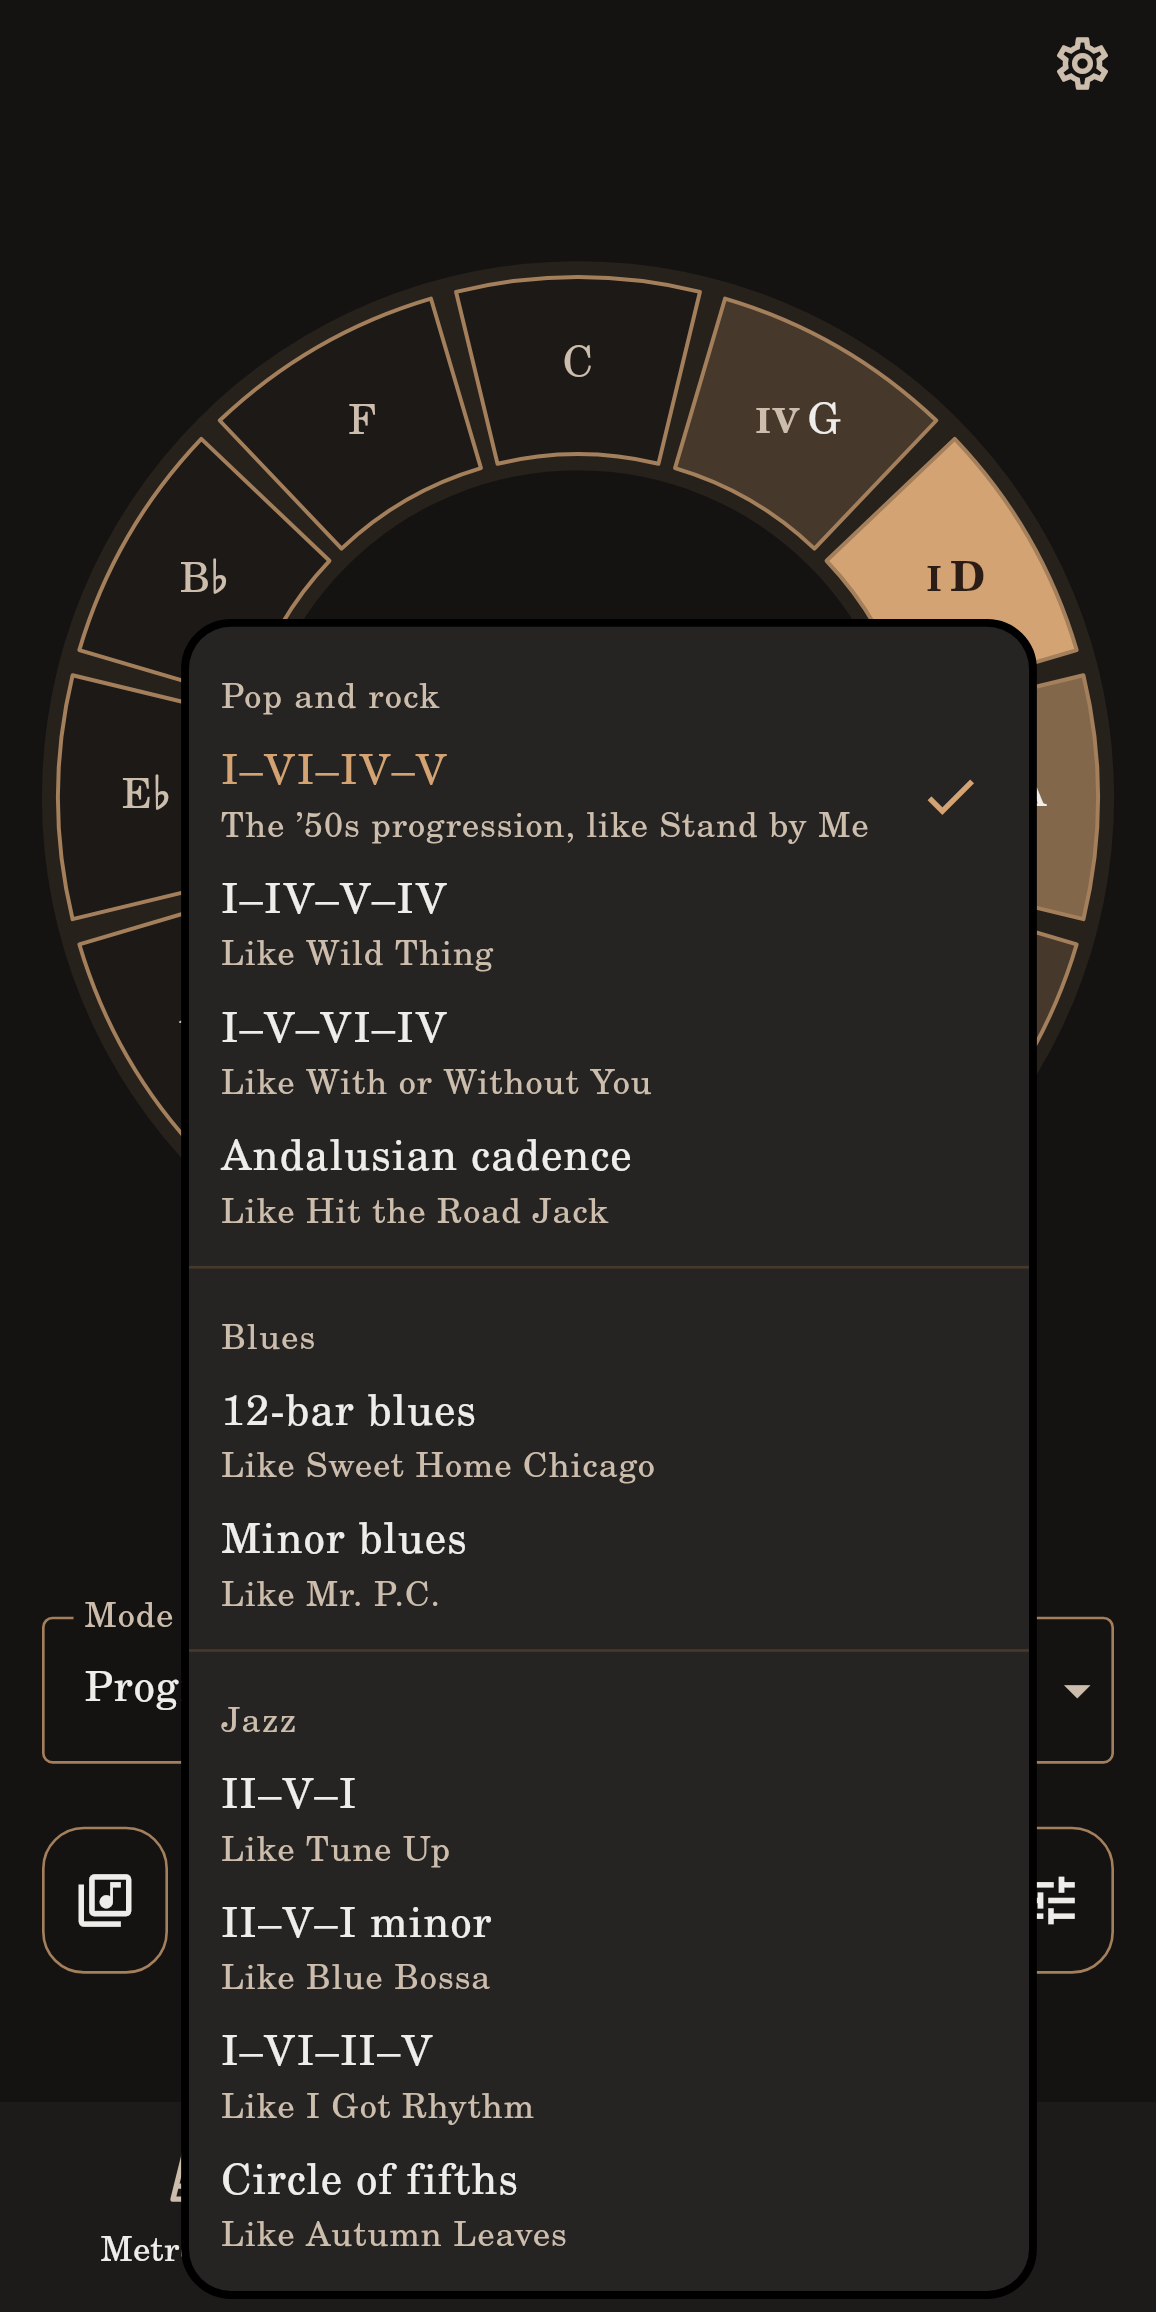
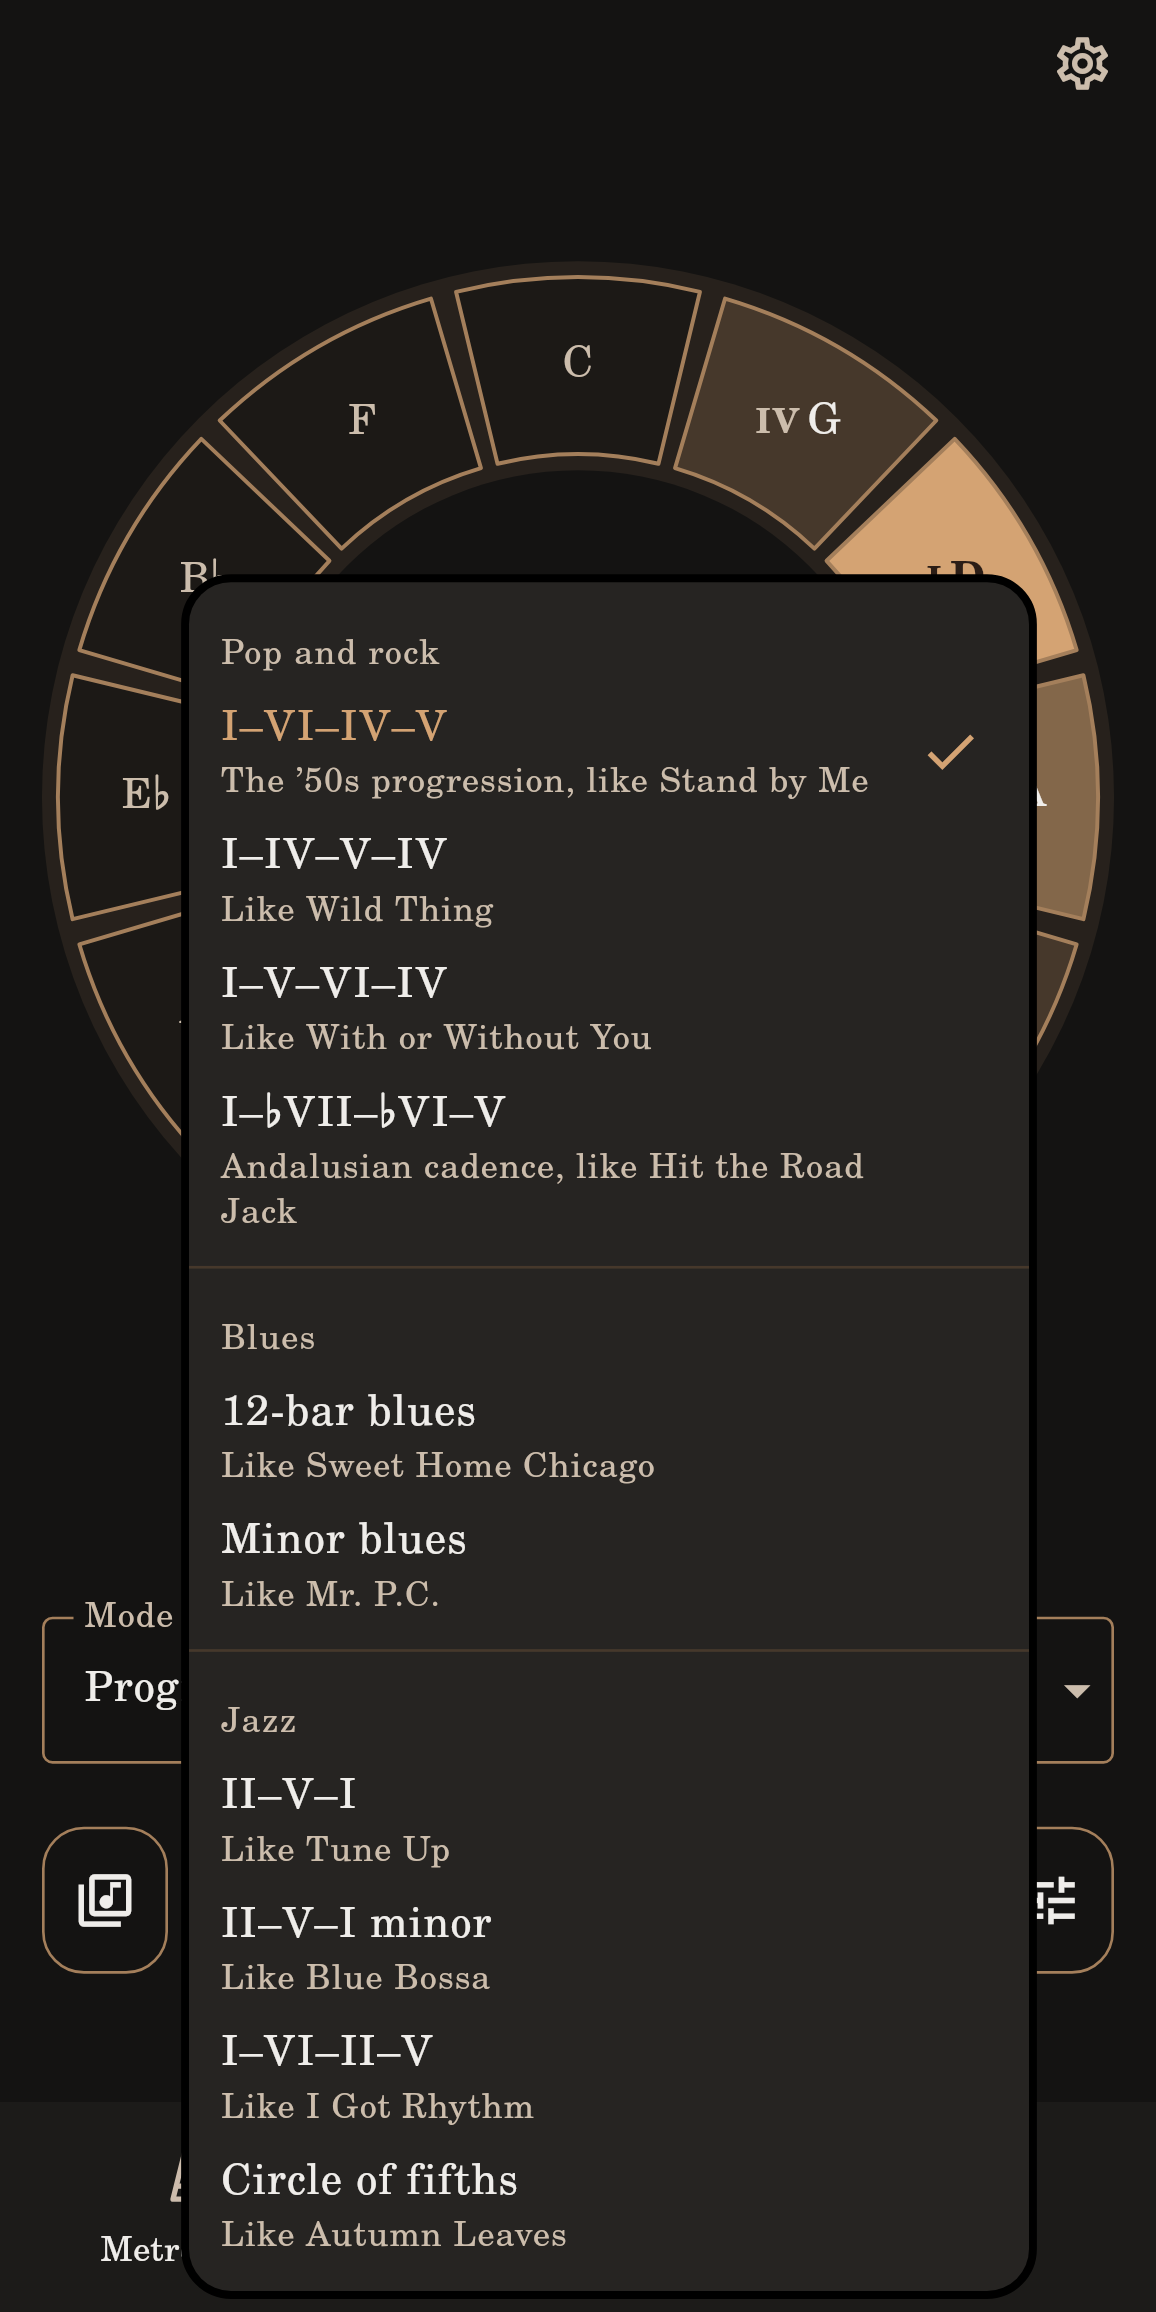
Andalusian cadence in numerals; example songs in sections
- The Andalusian cadence is listed as I–♭VII–♭VI–V like the other
  progressions, with its name under it: "Andalusian cadence, like Hit
  the Road Jack" ("Cadenza andalusa, come Hit the Road Jack").
- The example songs sheet has the same sections as the progression
  menu (Pop and rock, Blues, Jazz), with the same headings, in the
  same order.

Claude-Session: https://claude.ai/code/session_01H8DRTB9goE3kTEL2xUfQaQ

diff --git a/lib/features/tuner/drone/drone_key_sheets.dart b/lib/features/tuner/drone/drone_key_sheets.dart
@@ -24,7 +24,6 @@ String keyName(AppLocalizations l10n, DroneController drone, NoteNames names) {
 String progressionShort(AppLocalizations l10n, Progression p) => switch (p) {
   Progression.minorTwoFiveOne => 'II–V–I',
   Progression.blues || Progression.minorBlues => l10n.progressionBluesShort,
-  Progression.andalusian => 'I–♭VII–♭VI–V',
   _ => progressionName(l10n, p),
 };
 
@@ -207,7 +206,16 @@ Future<void> showSongsSheet(BuildContext context) {
                   ),
                 ),
               ),
-              for (final song in exampleSongs)
+              for (final (i, song) in exampleSongs.indexed) ...[
+                // The sections of the progression menu, in the same order.
+                if (i == 0 ||
+                    exampleSongs[i - 1].progression.section !=
+                        song.progression.section) ...[
+                  if (i > 0) const Divider(),
+                  _SongSection(
+                    progressionSectionName(l10n, song.progression.section),
+                  ),
+                ],
                 ListTile(
                   key: ValueKey('song-${song.title}'),
                   title: Text(song.title),
@@ -225,6 +233,7 @@ Future<void> showSongsSheet(BuildContext context) {
                     Navigator.of(sheet).pop();
                   },
                 ),
+              ],
               const SizedBox(height: 8),
             ],
           ),
@@ -266,6 +275,34 @@ class LegendTile extends StatelessWidget {
         ),
         const SizedBox(height: 8),
       ],
+    );
+  }
+}
+
+/// The heading of a section of the example songs, as in the progression
+/// menu: small muted words, announced as a heading.
+class _SongSection extends StatelessWidget {
+  const _SongSection(this.text);
+
+  final String text;
+
+  @override
+  Widget build(BuildContext context) {
+    final theme = Theme.of(context);
+    return Semantics(
+      header: true,
+      child: Padding(
+        padding: const EdgeInsetsDirectional.fromSTEB(16, 8, 16, 0),
+        child: Align(
+          alignment: AlignmentDirectional.centerStart,
+          child: Text(
+            text,
+            style: theme.textTheme.labelMedium?.copyWith(
+              color: theme.colorScheme.onSurfaceVariant,
+            ),
+          ),
+        ),
+      ),
     );
   }
 }

diff --git a/lib/features/tuner/drone/drone_panel.dart b/lib/features/tuner/drone/drone_panel.dart
@@ -620,7 +620,7 @@ String progressionName(AppLocalizations l10n, Progression p) => switch (p) {
   Progression.oneFourFiveFour => 'I–IV–V–IV',
   Progression.oneSixFourFive => 'I–VI–IV–V',
   Progression.oneFiveSixFour => 'I–V–VI–IV',
-  Progression.andalusian => l10n.progressionAndalusian,
+  Progression.andalusian => 'I–♭VII–♭VI–V',
 };
 
 /// The well-known song a progression is named after in the menu.
@@ -646,11 +646,13 @@ String progressionSectionName(AppLocalizations l10n, ProgressionSection s) =>
     };
 
 /// The line under the name in the menu: "Like Wild Thing"; for I–VI–IV–V
-/// also its common name, the "giro di Do" of Italian musicians.
-String progressionNote(AppLocalizations l10n, Progression p) =>
-    p == Progression.oneSixFourFive
-    ? l10n.progressionGiroLike(progressionSong(p))
-    : l10n.progressionLike(progressionSong(p));
+/// and I–♭VII–♭VI–V also their common names, the "giro di Do" of Italian
+/// musicians and the Andalusian cadence.
+String progressionNote(AppLocalizations l10n, Progression p) => switch (p) {
+  Progression.oneSixFourFive => l10n.progressionGiroLike(progressionSong(p)),
+  Progression.andalusian => l10n.progressionAndalusianLike(progressionSong(p)),
+  _ => l10n.progressionLike(progressionSong(p)),
+};
 
 /// Chord (the note alone being one of them) or Progression, full width, as
 /// tall as the other sections' first row.

diff --git a/test/songs_and_degrees_test.dart b/test/songs_and_degrees_test.dart
@@ -108,6 +108,14 @@ void main() {
     await tester.pumpAndSettle();
     await tester.tap(find.byTooltip('Example songs'));
     await tester.pumpAndSettle();
+    // In the sections of the progression menu.
+    for (final heading in ['Pop and rock', 'Blues', 'Jazz']) {
+      expect(find.text(heading), findsOneWidget);
+    }
+    expect(
+      tester.getTopLeft(find.text('Stand by Me')).dy,
+      lessThan(tester.getTopLeft(find.text('Blues')).dy),
+    );
     await tester.tap(find.text('Blue Bossa'));
     await tester.pumpAndSettle();
     expect(scope.drone.voicing, DroneVoicing.progression);

diff --git a/test/names_test.dart b/test/names_test.dart
@@ -59,6 +59,11 @@ void main() {
     expect(find.text('Like Wild Thing'), findsOneWidget);
     expect(find.text('Like With or Without You'), findsOneWidget);
     expect(find.text('The ’50s progression, like Stand by Me'), findsOneWidget);
+    expect(find.text('I–♭VII–♭VI–V'), findsOneWidget);
+    expect(
+      find.text('Andalusian cadence, like Hit the Road Jack'),
+      findsOneWidget,
+    );
     expect(find.text('Like Sweet Home Chicago'), findsOneWidget);
     expect(find.text('Like Mr. P.C.'), findsOneWidget);
     expect(find.text('Like Tune Up'), findsOneWidget);

diff --git a/lib/l10n/app_localizations.dart b/lib/l10n/app_localizations.dart
@@ -212,11 +212,11 @@ abstract class AppLocalizations {
   /// **'12-bar blues'**
   String get progressionBlues;
 
-  /// No description provided for @progressionAndalusian.
+  /// Under I–♭VII–♭VI–V in the progression menu: its name and a well-known song that uses it.
   ///
   /// In en, this message translates to:
-  /// **'Andalusian cadence'**
-  String get progressionAndalusian;
+  /// **'Andalusian cadence, like {song}'**
+  String progressionAndalusianLike(String song);
 
   /// No description provided for @progressionCircleOfFifths.
   ///

diff --git a/lib/l10n/app_localizations_it.dart b/lib/l10n/app_localizations_it.dart
@@ -69,7 +69,9 @@ class AppLocalizationsIt extends AppLocalizations {
   String get progressionBlues => 'Blues in 12 battute';
 
   @override
-  String get progressionAndalusian => 'Cadenza andalusa';
+  String progressionAndalusianLike(String song) {
+    return 'Cadenza andalusa, come $song';
+  }
 
   @override
   String get progressionCircleOfFifths => 'Ciclo delle quinte';

diff --git a/lib/l10n/app_localizations_en.dart b/lib/l10n/app_localizations_en.dart
@@ -69,7 +69,9 @@ class AppLocalizationsEn extends AppLocalizations {
   String get progressionBlues => '12-bar blues';
 
   @override
-  String get progressionAndalusian => 'Andalusian cadence';
+  String progressionAndalusianLike(String song) {
+    return 'Andalusian cadence, like $song';
+  }
 
   @override
   String get progressionCircleOfFifths => 'Circle of fifths';

diff --git a/docs/manuale-utente.md b/docs/manuale-utente.md
@@ -32,8 +32,8 @@ Dodici tasti intorno a un cerchio (di norma nel cerchio delle quinte; nelle impo
 
 - **Tocca un tasto** per sentirlo su un vero pianoforte, a tempo con il metronomo. **Toccalo di nuovo**, o tocca il centro del cerchio, per fermarlo; toccando il centro da fermo suona di nuovo l'ultima nota. Armonia e metronomo possono suonare insieme o da soli.
 - **Tieni premuto Do♯ o Fa♯** per scriverli Re♭ o Sol♭.
-- **Modalità** (la seconda riga): **Accordo** o **Progressione**. **Accordo**: la nota da sola (la prima voce del menu), oppure maggiore, minore, settima di dominante, settima maggiore (maj7), settima minore (m7), semidiminuito (m7♭5), diminuito o quarta sospesa (sus4), costruito sulla nota. Mentre suona, al centro del cerchio l'accordo è scritto nota per nota (La Do♯ Mi, come in una progressione); la nota da sola mostra invece la sua frequenza. **Progressione**: un accordo per battuta, nella tonalità della nota toccata, ognuna lunga quattro, otto o dodici battute come le frasi musicali, così il giro ricomincia sempre dove te lo aspetti. Il menu va dalla più semplice alla più ricca, in tre sezioni. **Pop e rock**: I–VI–IV–V (*Giro di Do, come Stand by Me*), I–IV–V–IV (*Come Wild Thing*), I–V–VI–IV (*Come With or Without You*) e la cadenza andalusa (in tonalità minore, *Come Hit the Road Jack*). **Blues**: il blues di dodici battute (*Come Sweet Home Chicago*) e il blues minore (*Come Mr. P.C.*). **Jazz**: II–V–I con la I tenuta per due battute (*Come Tune Up*), II–V–I minore (*Come Blue Bossa*), I–VI–II–V (*Come I Got Rhythm*) e il ciclo delle quinte di otto battute (*Come Autumn Leaves*). Blues e jazz sono a settime, le altre a triadi. La prima, il giro di Do, è quella scelta finché non ne prendi un'altra. Mentre l'Armonia suona, il cerchio attenua le note che non senti; con una progressione attenua le note fuori dalla tonalità e scrive in piccolo i numeri romani (II, V, I) sulle note su cui stanno; restano fermi: leggi II, poi vai al V. Tocca un numero per vedere cosa significa. Al centro, una fila di pallini mostra le battute della progressione, quello pieno è l'accordo che suona.
-- **Brani d'esempio**: il pulsante a sinistra del menu delle progressioni (in modalità Progressione); toccandone uno imposti in un colpo tonalità, progressione e tempo.
+- **Modalità** (la seconda riga): **Accordo** o **Progressione**. **Accordo**: la nota da sola (la prima voce del menu), oppure maggiore, minore, settima di dominante, settima maggiore (maj7), settima minore (m7), semidiminuito (m7♭5), diminuito o quarta sospesa (sus4), costruito sulla nota. Mentre suona, al centro del cerchio l'accordo è scritto nota per nota (La Do♯ Mi, come in una progressione); la nota da sola mostra invece la sua frequenza. **Progressione**: un accordo per battuta, nella tonalità della nota toccata, ognuna lunga quattro, otto o dodici battute come le frasi musicali, così il giro ricomincia sempre dove te lo aspetti. Il menu va dalla più semplice alla più ricca, in tre sezioni. **Pop e rock**: I–VI–IV–V (*Giro di Do, come Stand by Me*), I–IV–V–IV (*Come Wild Thing*), I–V–VI–IV (*Come With or Without You*) e I–♭VII–♭VI–V (in tonalità minore, *Cadenza andalusa, come Hit the Road Jack*). **Blues**: il blues di dodici battute (*Come Sweet Home Chicago*) e il blues minore (*Come Mr. P.C.*). **Jazz**: II–V–I con la I tenuta per due battute (*Come Tune Up*), II–V–I minore (*Come Blue Bossa*), I–VI–II–V (*Come I Got Rhythm*) e il ciclo delle quinte di otto battute (*Come Autumn Leaves*). Blues e jazz sono a settime, le altre a triadi. La prima, il giro di Do, è quella scelta finché non ne prendi un'altra. Mentre l'Armonia suona, il cerchio attenua le note che non senti; con una progressione attenua le note fuori dalla tonalità e scrive in piccolo i numeri romani (II, V, I) sulle note su cui stanno; restano fermi: leggi II, poi vai al V. Tocca un numero per vedere cosa significa. Al centro, una fila di pallini mostra le battute della progressione, quello pieno è l'accordo che suona.
+- **Brani d'esempio**: il pulsante a sinistra del menu delle progressioni (in modalità Progressione); toccandone uno imposti in un colpo tonalità, progressione e tempo. Sono nello stesso ordine e nelle stesse sezioni del menu delle progressioni.
 - **Opzioni del suono** (il pulsante in fondo alla terza riga): il **tono continuo** (un suono fisso al posto del pianoforte ribattuto) e lo **stile**: accordo battuto una volta a battuta, a ogni tempo, oppure arpeggiato, secondo tempo e misura del metronomo. La fondamentale suona sempre nell'ottava 3 (La3 = 220 Hz in numerazione scientifica), che l'altoparlante del telefono rende bene; le altre note dell'accordo stanno vicine sopra di lei, come le suonerebbe la mano di un pianista. In fondo, **Legenda e gradi**, che spiega i colori del cerchio e i numeri.
 - **Partire insieme**: se il metronomo sta già suonando, l'armonia entra sulla battuta successiva del metronomo e, fino ad allora, al centro del cerchio compaiono i secondi che mancano. Lo stesso vale per il metronomo, se lo avvii mentre l'armonia suona.
 

diff --git a/docs/user-guide.md b/docs/user-guide.md
@@ -32,8 +32,8 @@ Twelve keys round a dial (by default in the circle of fifths; you can ask for se
 
 - **Touch a key** to play it on a real piano, in time with the metronome. **Touch it again**, or the middle of the dial, to stop; touching the middle while it is stopped plays the last note again. The harmony and the metronome can play together or alone.
 - **Hold C♯ or F♯** to write them D♭ or G♭.
-- **Mode** (the second row): **Chord** or **Progression**. **Chord**: the note alone (the first entry of the menu), or major, minor, dominant 7, maj7, m7, half-diminished (m7♭5), diminished or sus4, built on the note. While it sounds, the middle of the dial writes the chord out note by note (A C♯ E, as in a progression); the note alone shows its frequency instead. **Progression**: one chord per bar, in the key of the note you touched, each four, eight or twelve bars long, as musical phrases are, so the loop always starts again where you expect it. The menu goes from the easiest to the richest, in three sections. **Pop and rock**: I–VI–IV–V (*The ’50s progression, like Stand by Me*; in Italy the "giro di Do"), I–IV–V–IV (*Like Wild Thing*), I–V–VI–IV (*Like With or Without You*) and the Andalusian cadence (in a minor key, *Like Hit the Road Jack*). **Blues**: the twelve-bar blues (*Like Sweet Home Chicago*) and the minor blues (*Like Mr. P.C.*). **Jazz**: II–V–I with the I held for two bars (*Like Tune Up*), minor II–V–I (*Like Blue Bossa*), I–VI–II–V (*Like I Got Rhythm*) and the eight-bar circle of fifths (*Like Autumn Leaves*). The blues and jazz ones are in sevenths, the others in triads. The first, I–VI–IV–V, is the one chosen until you pick another. While Harmony sounds, the dial fades the notes you do not hear; with a progression it fades the notes outside the key and writes the Roman numerals (II, V, I) small on the notes they stand on, and they stay put: read II, then go to V. Touch a numeral to see what it stands for. In the middle of the dial a row of dots shows the bars of the progression, the filled one being the chord sounding.
-- **Example songs**: the button left of the progression menu (in Progression mode); touching one sets the key, the progression and the tempo in one go.
+- **Mode** (the second row): **Chord** or **Progression**. **Chord**: the note alone (the first entry of the menu), or major, minor, dominant 7, maj7, m7, half-diminished (m7♭5), diminished or sus4, built on the note. While it sounds, the middle of the dial writes the chord out note by note (A C♯ E, as in a progression); the note alone shows its frequency instead. **Progression**: one chord per bar, in the key of the note you touched, each four, eight or twelve bars long, as musical phrases are, so the loop always starts again where you expect it. The menu goes from the easiest to the richest, in three sections. **Pop and rock**: I–VI–IV–V (*The ’50s progression, like Stand by Me*; in Italy the "giro di Do"), I–IV–V–IV (*Like Wild Thing*), I–V–VI–IV (*Like With or Without You*) and I–♭VII–♭VI–V (in a minor key, *Andalusian cadence, like Hit the Road Jack*). **Blues**: the twelve-bar blues (*Like Sweet Home Chicago*) and the minor blues (*Like Mr. P.C.*). **Jazz**: II–V–I with the I held for two bars (*Like Tune Up*), minor II–V–I (*Like Blue Bossa*), I–VI–II–V (*Like I Got Rhythm*) and the eight-bar circle of fifths (*Like Autumn Leaves*). The blues and jazz ones are in sevenths, the others in triads. The first, I–VI–IV–V, is the one chosen until you pick another. While Harmony sounds, the dial fades the notes you do not hear; with a progression it fades the notes outside the key and writes the Roman numerals (II, V, I) small on the notes they stand on, and they stay put: read II, then go to V. Touch a numeral to see what it stands for. In the middle of the dial a row of dots shows the bars of the progression, the filled one being the chord sounding.
+- **Example songs**: the button left of the progression menu (in Progression mode); touching one sets the key, the progression and the tempo in one go. They are listed in the same order and sections as the progression menu.
 - **Sound options** (the button at the end of the third row): **held tone** (a steady tone instead of the piano struck again and again) and **style**: the chord struck once a bar, on every beat, or played as an arpeggio, at the metronome's tempo and time signature. The root always sounds in octave 3 (A3 = 220 Hz), which the phone's own speaker plays well; the rest of the chord sits close together above it, as a pianist's hand plays it. At the bottom, **Legend and degrees**, which explains the colours of the dial and the numerals.
 - **Starting together**: if the metronome is already playing, the harmony comes in on the metronome's next bar line, and until then the middle of the dial shows the seconds to go. The same goes for the metronome when you start it while the harmony plays.
 
